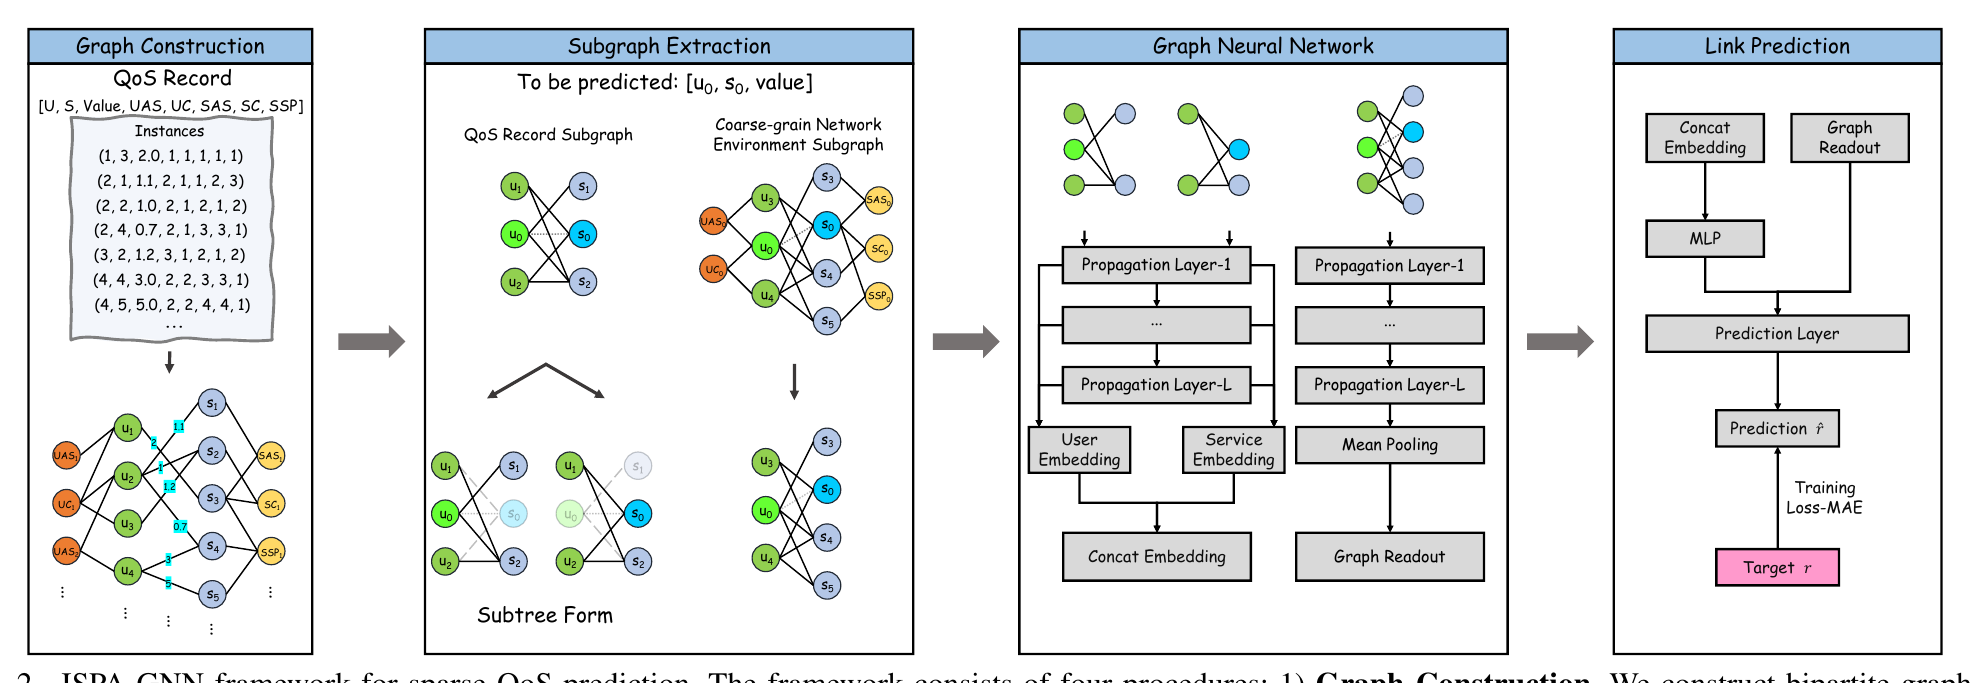
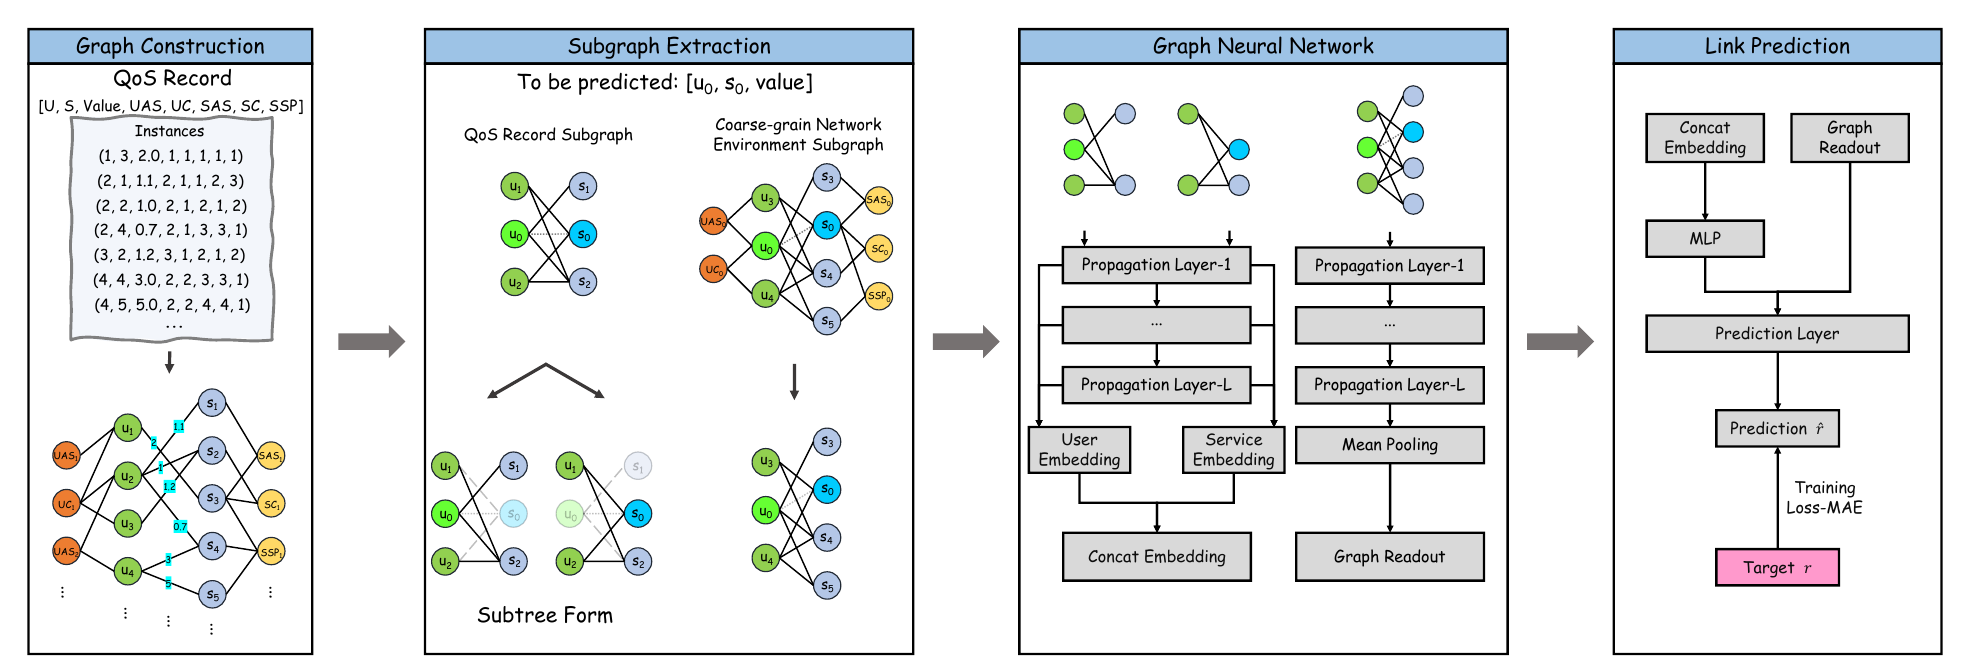
Add ICPADS publication links and framework

diff --git a/index.html b/index.html
@@ -101,7 +101,7 @@ main{min-width:0;background:#fff;padding:28px clamp(22px,2vw,36px) 10px;border:1
       <section id="publications"><h2><span class="section-emoji" aria-hidden="true">📚</span><span class="en">Publications</span><span class="zh">论文成果</span></h2><p class="ranking-note"><span class="en">JCR: 2025 data, released in 2026. CAS: 2025 major-category edition. Click a badge for its source.</span><span class="zh">JCR：2025年数据（2026年发布）；中科院：2025年大类分区。点击标签查看来源。</span></p><h3 class="subheading publication-group"><span class="en">Selected Publications — Graduate Studies</span><span class="zh">研究生代表作</span></h3><article class="paper spotlight"><div class="venue"><span class="venue-name"><span class="venue-short">NeurIPS 2026</span> <span class="venue-full">(Conference on Neural Information Processing Systems)</span></span><span class="venue-badges"><a class="ccf-rank ccf-a" href="https://www.ccf.org.cn/Academic_Evaluation/By_category/" target="_blank" rel="noopener noreferrer" title="CCF-A">CCF-A</a></span><span class="status"><span class="en">Accepted · First author</span><span class="zh">已接收 · 第一作者</span></span></div><h3>DTA-GT: Direction- and Topology-Aware Graph Transformer for Neural Network Representation Learning</h3><p class="authors"><strong class="author-name">Yuxiang Zeng</strong>, <span class="author-name">Kun Xie</span>, <span class="author-name">Yang Wang</span>, <span class="author-name">Jigang Wen</span>, <span class="author-name">Xiaocan Li</span>, <span class="author-name">Guangxing Zhang</span>, <span class="author-name">Gaogang Xie</span>, <span class="author-name">Jiannong Cao</span>.</p><details class="paper-summary"><summary><span class="en">Research summary</span><span class="zh">研究简介</span></summary><p class="summary"><span class="en">DTA-GT learns representations of neural architecture DAGs for accuracy and latency prediction, preserving directed computational semantics throughout the graph encoder.</span><span class="zh">面向神经网络架构的精度与时延预测，将计算图的方向和拓扑信息贯穿图编码过程，学习保留有向计算语义的架构表示。</span></p></details><div class="paper-links"><a href="assets/dta-gt-framework.svg" target="_blank" rel="noopener noreferrer"><span class="en">Framework ↗</span><span class="zh">框架图 ↗</span></a><a href="https://github.com/ZengYuXiang7/DTA-GT" target="_blank" rel="noopener noreferrer"><span class="en">Code ↗</span><span class="zh">代码 ↗</span></a></div></article>
 <article class="paper spotlight"><div class="venue"><span class="venue-name"><span class="venue-short">IEEE TIFS 2026</span> <span class="venue-full">(IEEE Transactions on Information Forensics and Security)</span></span><span class="venue-badges"><a class="ccf-rank ccf-a" href="https://www.ccf.org.cn/Academic_Evaluation/By_category/" target="_blank" rel="noopener noreferrer" title="CCF-A">CCF-A</a><a class="ccf-rank rank-jcr" href="https://journalcompass.com/journals/ieee-transactions-on-information-forensics-and-security-15566013.html" target="_blank" rel="noopener noreferrer" title="JCR Q1; 2025 data, released in 2026" data-title-en="JCR Q1; 2025 data, released in 2026" data-title-zh="JCR Q1；2025数据，2026年发布">JCR Q1 · 2025</a><a class="ccf-rank rank-cas" href="https://journalcompass.com/journals/ieee-transactions-on-information-forensics-and-security-15566013.html" target="_blank" rel="noopener noreferrer" title="CAS 2025 major category: Computer Science, Zone 1, Top journal" data-title-en="CAS 2025 major category: Computer Science, Zone 1, Top journal" data-title-zh="2025中科院升级版大类：计算机科学1区，Top期刊"><span class="en">CAS 1 · Top · 2025</span><span class="zh">中科院1区 · Top · 2025</span></a> </span><span class="status"><span class="en">Accepted</span><span class="zh">已接收</span></span></div><h3>Graph-based Contrastive Learning and Clustering for Open-World Encrypted Traffic Classification</h3><p class="authors"><span class="author-name">Jigang Wen</span>, <span class="author-name">Xiyu Zhang</span>, <span class="author-name">Kun Xie</span>, <strong class="author-name">Yuxiang Zeng</strong>, <span class="author-name">Kun Huang</span>, <span class="author-name">Yudian Ouyang</span>, <span class="author-name">Wei Liang</span>.</p><div class="paper-links"><a href="https://ieeexplore.ieee.org/abstract/document/11570854" target="_blank" rel="noopener noreferrer"><span class="en">Paper ↗</span><span class="zh">论文 ↗</span></a></div></article>
 <h3 class="subheading publication-group undergraduate-group"><span class="en">Selected Publications — Undergraduate Studies</span><span class="zh">本科生代表作</span></h3><article class="paper spotlight"><div class="venue"><span class="venue-name"><span class="venue-short">IEEE SSE 2023</span> <span class="venue-full">(IEEE International Conference on Software Services Engineering)</span></span><span class="venue-badges"><a class="ccf-rank ccf-c" href="https://www.ccf.org.cn/Academic_Evaluation/By_category/2024-06-28/825349.shtml" target="_blank" rel="noopener noreferrer" title="CCF-C; IEEE SCC was renamed IEEE SSE" data-title-en="CCF-C; IEEE SCC was renamed IEEE SSE" data-title-zh="CCF C类；IEEE SCC 已更名为 IEEE SSE">CCF-C</a></span><span class="status"><span class="en">Published · First author</span><span class="zh">已发表 · 第一作者</span></span></div><h3>QoSEraser: A Data Erasable Framework for Web Service QoS Prediction</h3><p class="authors"><strong class="author-name">Yuxiang Zeng</strong>, <span class="author-name">Yuhui Li</span>, <span class="author-name">Zhiyu Xia</span>, <span class="author-name">Zibo Du</span>, <span class="author-name">Jialin Wang</span>, <span class="author-name">Ruimin Lian</span>, <span class="author-name">Jianlong Xu</span>.</p><details class="paper-summary"><summary><span class="en">Research summary</span><span class="zh">研究简介</span></summary><p class="summary"><span class="en">QoSEraser supports efficient machine unlearning for Web service QoS prediction through data partitioning and embedding aggregation.</span><span class="zh">面向 Web 服务 QoS 预测的机器遗忘框架，通过数据分片与表示聚合支持高效遗忘，并保留预测所需的协同信息。</span></p></details><div class="paper-links"><a href="assets/qoseraser-framework.png" target="_blank" rel="noopener noreferrer"><span class="en">Framework ↗</span><span class="zh">框架图 ↗</span></a><a href="https://doi.org/10.1109/SSE60056.2023.00022" target="_blank" rel="noopener noreferrer"><span class="en">Paper ↗</span><span class="zh">论文 ↗</span></a><a href="https://github.com/ZengYuXiang7/QoSEraser" target="_blank" rel="noopener noreferrer"><span class="en">Code ↗</span><span class="zh">代码 ↗</span></a></div></article>
-<article class="paper spotlight"><div class="venue"><span class="venue-name"><span class="venue-short">IEEE ICPADS 2022</span> <span class="venue-full">(IEEE International Conference on Parallel and Distributed Systems)</span></span><span class="venue-badges"><a class="ccf-rank ccf-c" href="https://www.ccf.org.cn/Academic_Evaluation/ARCH_DCP_SS/" target="_blank" rel="noopener noreferrer" title="CCF-C">CCF-C</a></span><span class="status"><span class="en">Published</span><span class="zh">已发表</span></span></div><h3>Subgraph Sampling for Inductive Sparse Cloud Services QoS Prediction</h3><p class="authors"><span class="author-name">Jianlong Xu</span>, <span class="author-name">Zhiyu Xia</span>, <span class="author-name">Yuhui Li</span>, <strong class="author-name">Yuxiang Zeng</strong>, <span class="author-name">Zhidan Liu</span>.</p></article>
+<article class="paper spotlight"><div class="venue"><span class="venue-name"><span class="venue-short">IEEE ICPADS 2022</span> <span class="venue-full">(IEEE International Conference on Parallel and Distributed Systems)</span></span><span class="venue-badges"><a class="ccf-rank ccf-c" href="https://www.ccf.org.cn/Academic_Evaluation/ARCH_DCP_SS/" target="_blank" rel="noopener noreferrer" title="CCF-C">CCF-C</a></span><span class="status"><span class="en">Published</span><span class="zh">已发表</span></span></div><h3>Subgraph Sampling for Inductive Sparse Cloud Services QoS Prediction</h3><p class="authors"><span class="author-name">Jianlong Xu</span>, <span class="author-name">Zhiyu Xia</span>, <span class="author-name">Yuhui Li</span>, <strong class="author-name">Yuxiang Zeng</strong>, <span class="author-name">Zhidan Liu</span>.</p><div class="paper-links"><a href="assets/icpads-2022-framework.png" target="_blank" rel="noopener noreferrer"><span class="en">Framework ↗</span><span class="zh">框架图 ↗</span></a><a href="https://liuzhidan.github.io/files/2022-ICPADS-QoS.pdf" target="_blank" rel="noopener noreferrer"><span class="en">Paper ↗</span><span class="zh">论文 ↗</span></a></div></article>
 <h3 class="subheading publication-group publication-divider"><span class="en">Other Publications</span><span class="zh">其他论文</span></h3>
 <article class="paper spotlight"><div class="venue"><span class="venue-name">Computer Communications 2026</span><span class="venue-badges"><a class="ccf-rank ccf-c" href="https://www.ccf.org.cn/Academic_Evaluation/CN/zgjsjxhtjgjxskw/cl/2017-03-13/586264.shtml" target="_blank" rel="noopener noreferrer" title="CCF-C">CCF-C</a><a class="ccf-rank rank-jcr" href="https://www.ablesci.com/journal/detail?id=5xxx45" target="_blank" rel="noopener noreferrer" title="2025 data, released in 2026; Q2 in Computer Science: Information Systems, Electrical &amp; Electronic Engineering, and Telecommunications" data-title-en="2025 data, released in 2026; Q2 in Computer Science: Information Systems, Electrical &amp; Electronic Engineering, and Telecommunications" data-title-zh="2025数据，2026年发布；计算机：信息系统、电子与电气、电信学均为Q2">JCR Q2 · 2025</a><a class="ccf-rank rank-cas" href="https://www.ablesci.com/journal/detail?id=5xxx45" target="_blank" rel="noopener noreferrer" title="CAS 2025 major category: Computer Science, Zone 3" data-title-en="CAS 2025 major category: Computer Science, Zone 3" data-title-zh="2025中科院升级版大类：计算机科学3区"><span class="en">CAS 3 · 2025</span><span class="zh">中科院3区 · 2025</span></a></span><span class="status"><span class="en">Published</span><span class="zh">已发表</span></span></div><h3>Sparse QoS prediction for cloud services via inductive subgraph pattern aware graph neural network</h3><p class="authors"><span class="author-name">Jianlong Xu</span>, <span class="author-name">Caiyi Chen</span>, <span class="author-name">Qingcao Dai</span>, <span class="author-name">Guanchen Du</span>, <span class="author-name">Ruiqi Wang</span>, <span class="author-name">Mingtong Li</span>, <span class="author-name">Quanqing Guo</span>, <strong class="author-name">Yuxiang Zeng</strong>.</p></article>
 <article class="paper spotlight"><div class="venue"><span class="venue-name"><span class="en">Statistics &amp; Decision 2025</span><span class="zh">统计与决策 2025</span></span><span class="venue-badges"><a class="ccf-rank rank-core" href="https://www.ncpssd.org/journal/secure/details?params=VHE3dEZ5YlJTWlJVTU9XNXJKL2xjUjJUWnFwTHZYS1pxRU1kTEdsOWpISDhUNUdLOGgxaHUyM2ZtNWtZWlYxbURHcW0rVUJhY3p6SExwMk82VEgyOVE9PQ" target="_blank" rel="noopener noreferrer" title="CSSCI source journal (2025–2026)" data-title-en="CSSCI source journal (2025–2026)" data-title-zh="CSSCI来源期刊（2025–2026），不是扩展版">CSSCI · 2025–2026</a><a class="ccf-rank rank-core" href="https://www.ncpssd.org/journal/secure/details?params=VHE3dEZ5YlJTWlJVTU9XNXJKL2xjUjJUWnFwTHZYS1pxRU1kTEdsOWpISDhUNUdLOGgxaHUyM2ZtNWtZWlYxbURHcW0rVUJhY3p6SExwMk82VEgyOVE9PQ" target="_blank" rel="noopener noreferrer" title="Peking University Core Journals, 2023 edition" data-title-en="Peking University Core Journals, 2023 edition" data-title-zh="中文核心期刊要目总览2023年版"><span class="en">PKU Core · 2023</span><span class="zh">北大核心 · 2023</span></a></span><span class="status"><span class="en">Published</span><span class="zh">已发表</span></span></div><h3><span class="en">Parameter Calibration and Pricing Based on Rough Stochastic Models</span><span class="zh">基于粗糙随机模型的参数校准与定价研究</span></h3><p class="authors"><span class="en"><span class="author-name">Qianyu Ling</span>, <span class="author-name">Ning Liu</span>, <strong class="author-name">Yuxiang Zeng</strong>, <span class="author-name">Xiaopeng Chen</span>.</span><span class="zh"><span class="author-name">凌倩瑜</span>、<span class="author-name">刘宁</span>、<strong class="author-name">曾渝翔</strong>、<span class="author-name">陈晓鹏</span>。</span></p></article>
